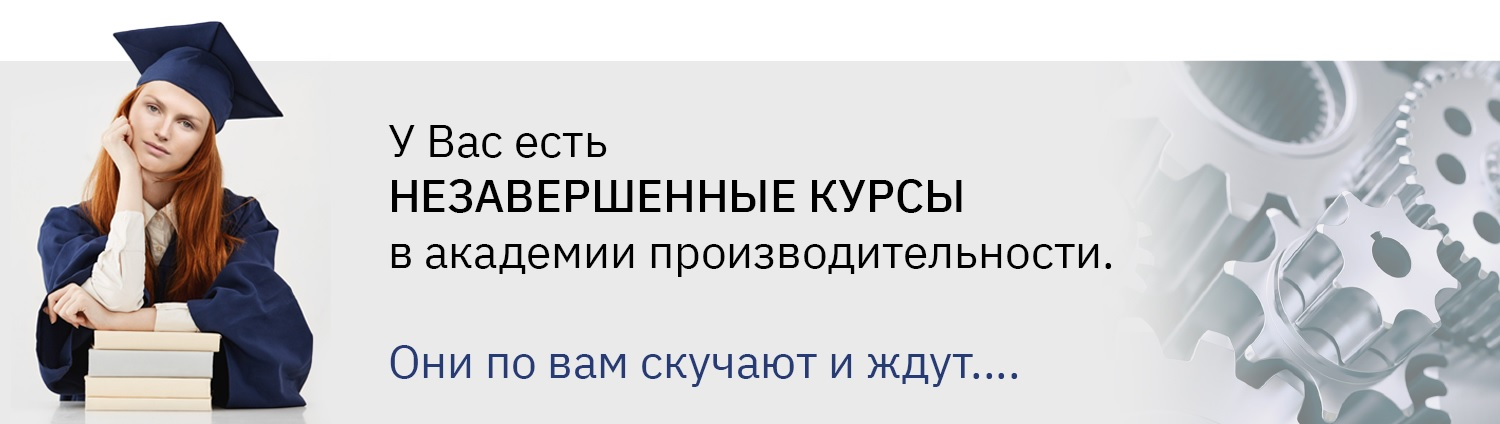
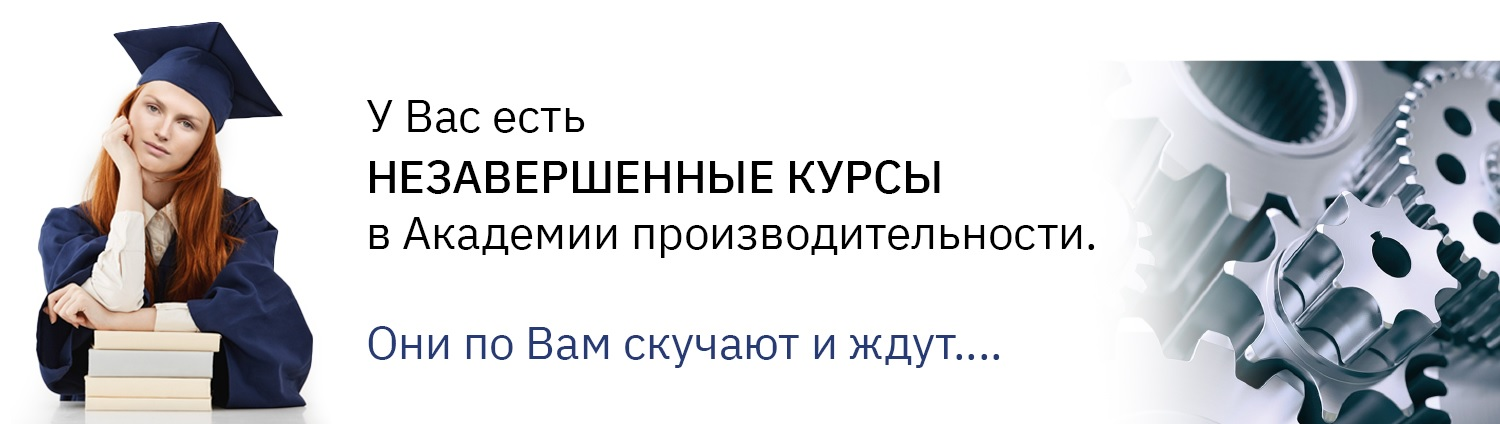
Cosmetic changes

diff --git a/scripts/agents_by_id/agent_7168598185951097742.js b/scripts/agents_by_id/agent_7168598185951097742.js
@@ -1,0 +1,180 @@
+// 7168598185951097742
+function addLogMessage(loggerName,message){EnableLog(loggerName,true);try{if(message==null){message="Empty message";}LogEvent(loggerName,message);}catch(e){throw new Error(e);}finally{EnableLog(loggerName,false);}}function addLogResultMessage(loggerName,message,total,processed,saved,skipped){EnableLog(loggerName, true);try{result="";if(message!=null){result=message+" ";}if(total!=null){result=result+total+" ";}if(processed!=null){result=result+processed+" ";}if(saved!=null){result=result+saved;}if(skipped!=null){result=result+skipped;}LogEvent(loggerName,result);}catch(e){throw new Error(e);}finally{EnableLog(loggerName,false);}}function getDurationMessage(duration) {try{var durationMessage=" sec";if(duration>=60&&duration<3600){duration=duration/60;durationMessage=" min";}if(duration>=3600){duration=duration/3600;durationMessage=" hour";}return StrReal(duration,1)+durationMessage;}catch(e){throw new Error(e);}}function getWebsocketClient(){try {return new WebSocketClient("ws://192.168.0.96:3000/");} catch (e) {}}function getAgentInstance(agentId, userId,  loggerName){agentDoc=tools.open_doc(agentId);userDoc=tools.open_doc(userId);userDocTE=userDoc.TopElem;agent={};agent.type="AGENT";agent.loggerName=loggerName;agent.id=agentId;agent.name=agentDoc.TopElem.name;agent.userId=userId;agent.userName=userDocTE.lastname+" "+userDocTE.firstname+" "+userDocTE.middlename;agent.state=0;agent.total="--";agent.processed="--";agent.skipped="--";agent.saved="--";agent.notFound="--";agent.message="";agent.errorMessage="";agent.fetchTime=0;agent.handlingTime=0;agent.savingTime=0;agent.refreshChart=0;agent.msPerRow=0;agent.minMsPerRow=999999;agent.maxMsPerRow=0;return agent;}function sendMessageToWebsocket(ws, agent){try {try {ws.Send("#" + EncodeJson(agent));agent.refreshChart = 0;} catch (e) {addLogMessage(agent.loggerName, "[agent.id: " + agent.id + "] Reconnect to websocket");ws = getWebsocketClient();}return ws;}catch(e){return null;}}function refreshMsPerRow(agent,startDate,total){try {if (total > 0) {agent.msPerRow = eval((DateToRawSeconds(Date()) - DateToRawSeconds(startDate)) + ".0 / " + total);} else {agent.msPerRow = 0;}}catch(e){}}function saveMonitorAgents(agent,startDate){try {monitorAgent=tools.new_doc_by_name("cc_agent_monitor_event",false);monitorAgent.BindToDb(DefaultDb);monitorAgentTE=monitorAgent.TopElem;monitorAgentTE.type=agent.type;monitorAgentTE.agent_id=agent.id;monitorAgentTE.user_id=agent.userId;monitorAgentTE.state=agent.state;monitorAgentTE.total=agent.total;monitorAgentTE.processed=agent.processed;monitorAgentTE.skipped=agent.skipped;monitorAgentTE.saved=agent.saved;monitorAgentTE.not_found=agent.notFound;monitorAgentTE.logger_name=agent.loggerName;monitorAgentTE.error_message=agent.errorMessage;monitorAgentTE.start_date=startDate;monitorAgentTE.finish_date=Date();monitorAgent.Save();} catch (e) {}}
+
+function setNotFinishedReminderDate(collaboratorId) {
+    collaboratorDoc = tools.open_doc(collaboratorId);
+
+    if(collaboratorDoc != undefined) {
+        collaboratorDoc.TopElem.custom_elems.ObtainChildByKey("not_finished_reminder").value = Date();
+
+        collaboratorDoc.Save();
+    }
+}
+
+function isScheduledDay(datetime) {
+    if(WeekDay(datetime) < 6 && Hour(Date()) >=8 &&  Hour(Date()) < 18) {
+        return true
+    }
+
+    return false;
+}
+
+var agentId = 7168598185951097742;
+var userId = 7389518304440750773; // Websoft inner user || FOR SCHEDULED AGENTS
+var msPerRecord = 0.001;
+
+var startDate = Date();
+var prevDate;
+var loggerName = "agent_7168598185951097742";
+var ws = getWebsocketClient();
+var agent = getAgentInstance(agentId, userId, loggerName);
+
+var total = 0;
+var processed = 0;
+var saved = 0;
+var skipped = 0;
+
+agent.message = "Получение данных...";
+ws = sendMessageToWebsocket(ws, agent);
+prevDate = new Date();
+
+addLogMessage(loggerName, "[agent.id: " + agentId + "] -------------------");
+addLogMessage(loggerName, "[agent.id: " + agentId + "] Started");
+addLogMessage(loggerName, "[agent.id: " + agentId + "] Processing...");
+
+try {
+    dataList = ArrayDirect(XQuery("sql: " +
+        " SET DATEFORMAT dmy; " +
+        " WITH _group_colls_view AS ( " +
+        "    SELECT TOP 50 cs.id " +
+        "    FROM [WTDB].[dbo].active_learnings als " +
+        "             INNER JOIN [WTDB].[dbo].courses crs ON als.course_id = crs.id AND UPPER(crs.code) LIKE '%FCK-%' " +
+        "             INNER JOIN [WTDB].[dbo].collaborators cs ON als.person_id = cs.id " +
+        "             INNER JOIN [WTDB].[dbo].collaborator c ON cs.id = c.id " +
+        "                AND IIF(c.data.value('(//custom_elems/custom_elem[name=''not_finished_reminder'']/value)[1]', 'varchar(max)') IS NULL, " +
+        "                        CAST ('01.01.2020' AS date), " +
+        "                        CAST(c.data.value('(//custom_elems/custom_elem[name=''not_finished_reminder'']/value)[1]', 'varchar(max)') AS datetime)) < DATEADD(DAY,  -180 , GETDATE() " +
+        "                    ) " +
+        "        AND c.data.value('(collaborator/access/web_banned)[1]', 'varchar(max)') != 1 " +
+        "    WHERE als.start_usage_date < DATEADD(DAY,  -14 , GETDATE()) " +
+        "    GROUP BY cs.id " +
+        " ) " +
+        " SELECT cs.id AS coll_id, " +
+        "       als.id course_id, " +
+        "       crs.name AS course_name, " +
+        "       colls.fullname " +
+        " FROM [WTDB].[dbo].active_learnings als " +
+        "         INNER JOIN [WTDB].[dbo].courses crs ON als.course_id = crs.id AND UPPER(crs.code) LIKE '%FCK-%' " +
+        "         INNER JOIN _group_colls_view cs ON als.person_id = cs.id " +
+        "         INNER JOIN [WTDB].[dbo].collaborators colls ON cs.id = colls.id " +
+        "         INNER JOIN [WTDB].[dbo].collaborator c ON colls.id = c.id " +
+        "                AND IIF(c.data.value('(//custom_elems/custom_elem[name=''not_finished_reminder'']/value)[1]', 'varchar(max)') IS NULL, " +
+        "                        CAST ('01.01.2020' AS date), " +
+        "                        CAST(c.data.value('(//custom_elems/custom_elem[name=''not_finished_reminder'']/value)[1]', 'varchar(max)') AS datetime)) < DATEADD(DAY,  -180 , GETDATE() " +
+        "                    ) " +
+        " WHERE als.start_usage_date < DATEADD(DAY,  -14 , GETDATE()) " +
+        " ORDER BY coll_id "));
+
+    total = ArrayCount(dataList);
+
+    agent.total = total;
+    agent.fetchTime = DateToRawSeconds(Date()) - DateToRawSeconds(prevDate);
+    agent.message = "Обработка данных...";
+    if (ws != null) {
+        ws = sendMessageToWebsocket(ws, agent);
+    }
+    prevDate = new Date();
+
+    notificationCount = 0;
+    currentPersonId = 0;
+    coursesLinks = new Binary();
+    colobaratorList = new Binary();
+
+    for (data in dataList) {
+        if(currentPersonId == 0) {
+            currentPersonId = data.coll_id;
+        }
+
+        if(data.coll_id != currentPersonId) {
+            // SEND NOTIFICATION
+            setNotFinishedReminderDate(currentPersonId);
+
+            tools.create_notification("incomplete_course", OptInt(currentPersonId), coursesLinks.GetStr());
+
+            colobaratorList.AppendStr("<div>" + dataList[processed - 1].fullname + " (" + currentPersonId + ")</div>");
+
+            notificationCount++;
+
+            currentPersonId = data.coll_id;
+
+            coursesLinks = new Binary();
+        }
+
+        coursesLinks.AppendStr("<p><a href='https://xn--d1auh.xn--b1aedfedwqbdfbnzkf0oe.xn--p1ai/learning_proc?object_id=" + data.course_id + "' target='_blank'>" + data.course_name + "</a></p>");
+
+        processed++;
+
+        agent.processed = processed;
+        agent.skipped = skipped;
+        agent.saved = saved;
+        refreshMsPerRow(agent, startDate, processed);
+        if (ws != null) {
+            ws = sendMessageToWebsocket(ws, agent);
+        }
+    }
+
+    if(total > 0) {
+        // SEND NOTIFICATION FOR LAST COLLABORATOR
+        setNotFinishedReminderDate(currentPersonId);
+
+        tools.create_notification("incomplete_course", OptInt(currentPersonId), coursesLinks.GetStr());
+
+        notificationCount++;
+
+        colobaratorList.AppendStr("<div>" + dataList[total - 1].fullname + " (" + dataList[total - 1].coll_id + ")</div>");
+
+        if(Param.send_notification_to_admin != '' && OptInt(Param.send_notification_to_admin) == 1 && isScheduledDay(Date())) {
+            notificationMessage = "<p><b>Отправлено " + notificationCount + " сообщений сотрудниркам о незавершенных курсах:</b></p>" + colobaratorList.GetStr();
+
+            tools.create_notification("find_incomplete_course", 7351734047845980789, notificationMessage); // AA
+            tools.create_notification("find_incomplete_course", 6743923349751162819, notificationMessage); // FK
+        }
+    }
+
+    agent.state = 1;
+    agent.processed = processed;
+    agent.saved = saved;
+    agent.skipped = skipped;
+    agent.handlingTime = DateToRawSeconds(Date()) - DateToRawSeconds(prevDate);
+    refreshMsPerRow(agent, startDate, total);
+    agent.message = "Закончено";
+    if (ws != null) {
+        ws = sendMessageToWebsocket(ws, agent);
+    }
+
+    addLogResultMessage(
+        loggerName,
+        "[agent.id: " + agentId + "]",
+        total + " total, ",
+        processed + " processed",
+        saved + " saved, ",
+        skipped + " skipped"
+    );
+
+    addLogMessage(
+        loggerName,
+        "[agent.id: " + agentId + "] Duration: " + getDurationMessage(DateToRawSeconds(Date()) - DateToRawSeconds(startDate))
+    );
+} catch (e) {
+    agent.state = 2;
+    agent.errorMessage = e;
+    sendMessageToWebsocket(ws, agent);
+
+    addLogMessage(loggerName, "[agent.id: " + agentId + "] ERROR: " + e);
+}
+
+saveMonitorAgents(agent, startDate);
+
+try {
+    ws.Send("close");
+} catch (e) {}

diff --git a/scripts/notifications/notification_7164036739468573156.html b/scripts/notifications/notification_7164036739468573156.html
@@ -1,0 +1,14 @@
+<!-- 7164036739468573156 -->
+<p><img src="https://xn--d1auh.xn--b1aedfedwqbdfbnzkf0oe.xn--p1ai/fcc/images/incomplete_course.jpg"/></p>
+<div style="padding-left: 20px;">
+    <br/>
+    <p><%=objDoc.firstname%> <%=objDoc.middlename%>,</p>
+    <p>Ваши нензавершенные курсы Вы можете найти по ссылкам:</p>
+    <%=Text%>
+    <p>Завершите обучение и скачайте Ваши сертификаты в разделе «Моё обучение» или по ссылке: <a href='https://xn--d1auh.xn--b1aedfedwqbdfbnzkf0oe.xn--p1ai/view_doc.html?mode=my_account' target='_blank'>сдо.производительность.рф</a></p>
+    <br>
+    <p>С уважением,</p>
+    <p>Команда портала производительность.рф</p>
+    ----------
+    <p>Данное письмо сгенерировано автоматически, не отвечайте на него. При возникновении технических проблем просим обращаться по адресу - <a style="color:#5992cd;  text-decoration: none;" href="support@pptrf.ru">support@pptrf.ru</a></p>
+</div>

diff --git a/scripts/notifications/notification_7168665521389299313.html b/scripts/notifications/notification_7168665521389299313.html
@@ -1,0 +1,11 @@
+<!-- 7168665521389299313 -->
+<div style="padding-left: 20px;">
+    <br/>
+    <p><%=objDoc.firstname%> <%=objDoc.middlename%>,</p>
+    <%=Text%>
+    <br>
+    <p>С уважением,</p>
+    <p>Команда портала производительность.рф</p>
+    ----------
+    <p>Данное письмо сгенерировано автоматически, не отвечайте на него.></p>
+</div>

diff --git a/scripts/wtBlankLibs/blankLibraries.d.ts b/scripts/wtBlankLibs/blankLibraries.d.ts
@@ -49,6 +49,7 @@ function Day(datetime: any): number;
 function Month(datetime: any): number;
 function Year(datetime: any): number;
 function Minute(datetime: any): number;
+function WeekDay(datetime: any): number;
 function DeleteFile(url: string): void;
 function OpenDoc(url: string): object;
 function UrlToFilePath(s: string): any;
